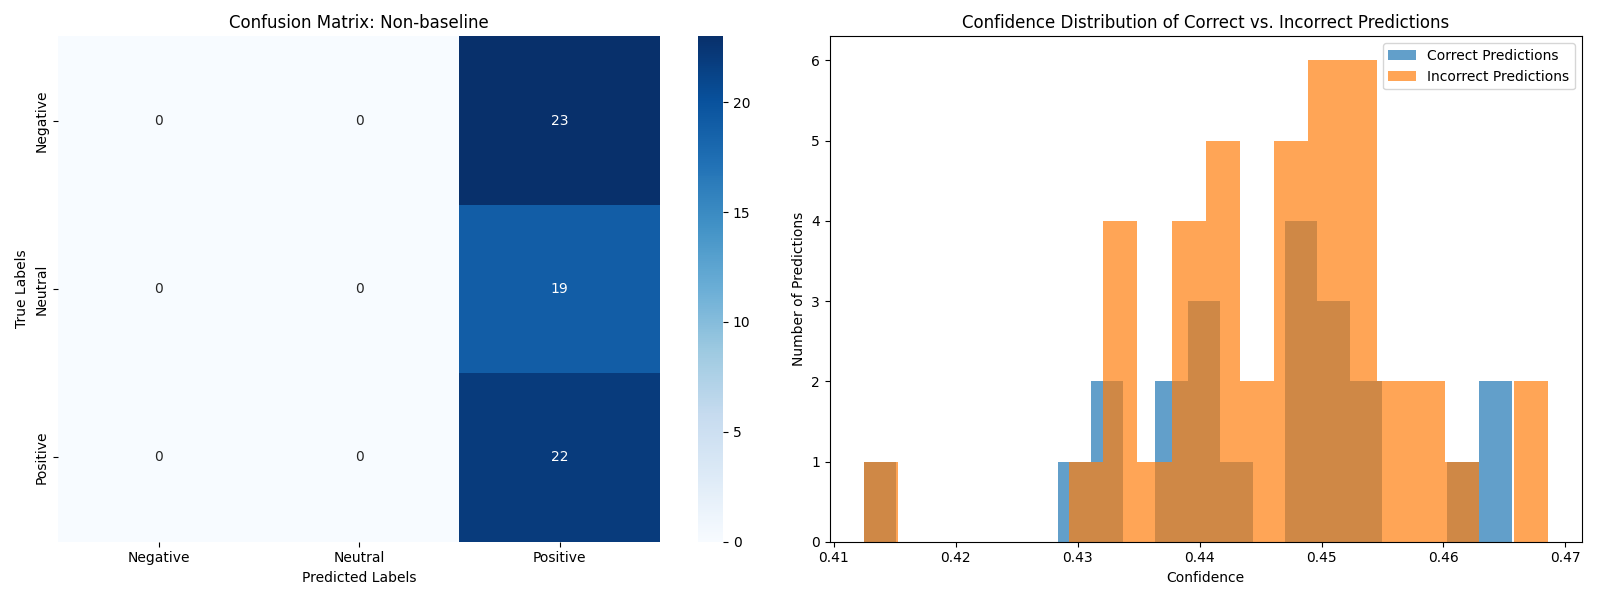
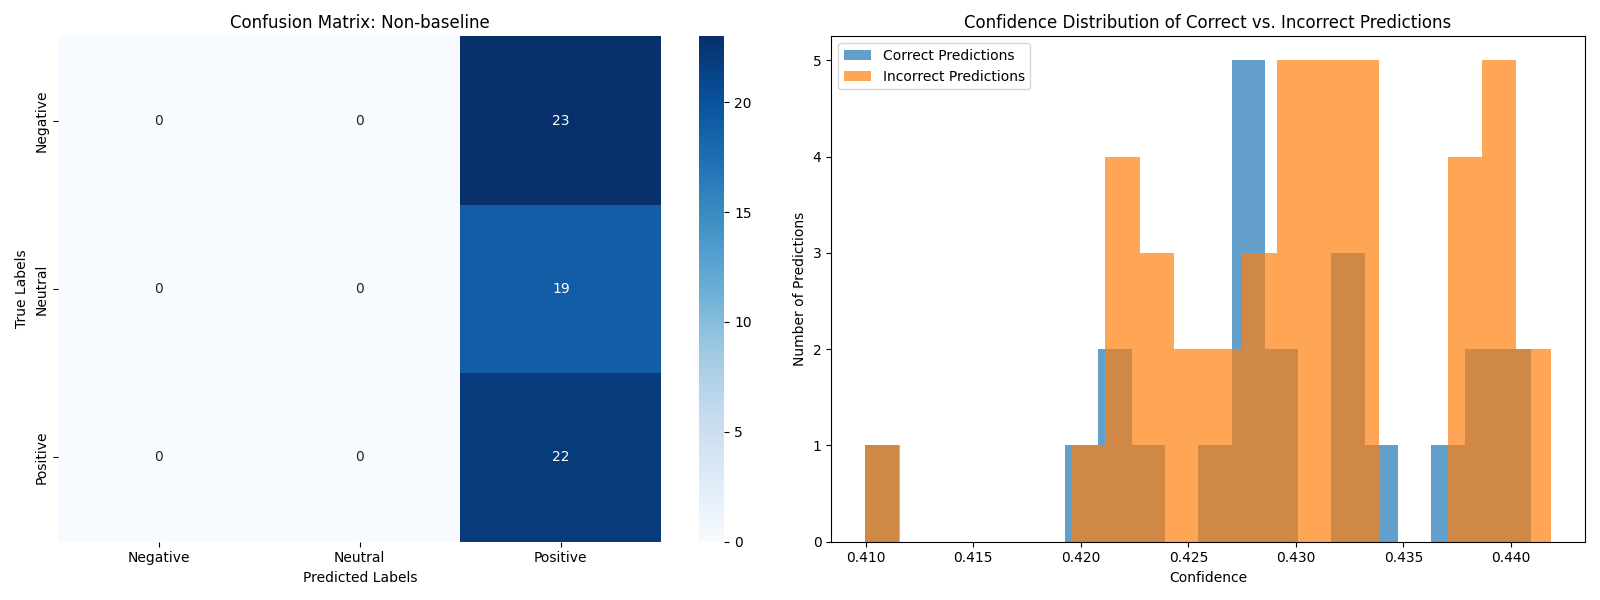
Change loss computations

diff --git a/train.py b/train.py
@@ -19,7 +19,7 @@ IS_BASELINE = True
 def train_epoch(model, data_loader, loss_function, optimizer, device, epoch):
     model.train()
     total_loss = 0
-    total_examples = 0
+    total_batches = 0
     all_preds = []
     all_labels = []
 
@@ -44,11 +44,11 @@ def train_epoch(model, data_loader, loss_function, optimizer, device, epoch):
         optimizer.step()
 
         if batch_num % PRINT_EVERY == 0:
-            print("EPOCH {}: BATCH {}/{}, LOSS: {:.4f}".format(epoch, batch_num, len(data_loader), loss.item() / input_ids.size(0)))
+            print("EPOCH {}: BATCH {}/{}, LOSS: {:.4f}".format(epoch, batch_num, len(data_loader), loss.item()))
             print("LOGITS MEAN", logits.mean(dim=0))
 
         total_loss += loss.item()
-        total_examples += input_ids.size(0)
+        total_batches += 1
 
         preds = torch.argmax(logits, dim=1).cpu().numpy()
         true_labels = labels.cpu().numpy()
@@ -57,7 +57,7 @@ def train_epoch(model, data_loader, loss_function, optimizer, device, epoch):
         if EARLY_EXIT is not None and batch_num > EARLY_EXIT:
             break
 
-    avg_loss = total_loss / total_examples
+    avg_loss = total_loss / total_batches
     accuracy = accuracy_score(all_labels, all_preds)
     return avg_loss, accuracy
 
@@ -65,7 +65,7 @@ def train_epoch(model, data_loader, loss_function, optimizer, device, epoch):
 def evaluate(model, data_loader, loss_function, device, epoch):
     model.eval()
     total_loss = 0
-    total_examples = 0
+    total_batches = 0
     all_preds = []
     all_labels = []
     positive_samples = 0
@@ -93,7 +93,7 @@ def evaluate(model, data_loader, loss_function, device, epoch):
 
             loss = loss_function(logits, labels)
             total_loss += loss.item()
-            total_examples += input_ids.size(0)
+            total_batches += 1
 
             preds = torch.argmax(logits, dim=1).cpu().numpy()
             true_labels = labels.cpu().numpy()
@@ -102,12 +102,12 @@ def evaluate(model, data_loader, loss_function, device, epoch):
             if EARLY_EXIT is not None and batch_num > EARLY_EXIT:
                 break
 
-    avg_loss = total_loss / total_examples
+    avg_loss = total_loss / total_batches
     accuracy = accuracy_score(all_labels, all_preds)
     f1 = f1_score(all_labels, all_preds, average='weighted')  
     print("EPOCH {}:\nAverage Loss: {}\nAccuracy: {}\nF1 Score: {}".format(epoch, avg_loss, accuracy, f1))
     print("Data distribution:\nNegative Samples: {}\nNeutral Samples: {}\nNegative Samples: {}".format(negative_samples, neutral_samples, positive_samples))
-    print("Negative %: {:.4f}\nNeutral %: {:.4f}\nPositive %: {:.4f}".format(negative_samples / total_examples, neutral_samples / total_examples, positive_samples / total_examples))
+    print("Negative %: {:.4f}\nNeutral %: {:.4f}\nPositive %: {:.4f}".format(negative_samples / total_batches, neutral_samples / total_batches, positive_samples / total_batches))
     print("-----------------------------------\n")
 
     return avg_loss, accuracy, f1
@@ -164,7 +164,7 @@ if __name__ == "__main__":
     else:
         model = StockPredictor()
 
-    loss_fn = torch.nn.CrossEntropyLoss(reduction="sum")
+    loss_fn = torch.nn.CrossEntropyLoss(reduction="mean")
     learning_rate = 1e-4
     optimizer = AdamW(model.parameters(), lr=learning_rate)
     device = torch.device("cuda" if torch.cuda.is_available() else "cpu")

diff --git a/visualize.py b/visualize.py
@@ -14,6 +14,9 @@ from model_baseline import BaselineModel
 from util import *
 
 def plot_confusion_matrix(predictions, true_labels, title="Confusion Matrix", ax=None):
+    print("NEGATIVE PREDS:", predictions.count(0))
+    print("NEUTRAL PREDS:", predictions.count(1))
+    print("POSITIVE PREDS:", predictions.count(2))
     cm = confusion_matrix(true_labels, predictions)
 
     sns.heatmap(cm, annot=True, fmt='d', cmap='Blues', xticklabels=['Negative', 'Neutral', 'Positive'], yticklabels=['Negative', 'Neutral', 'Positive'], ax=ax)
@@ -36,7 +39,7 @@ def plot_confidence_distribution(correct_preds, incorrect_preds, confidence, ax)
 def evaluate_model(model, data_loader, loss_function, device, figure_path):
     model.eval()
     total_loss = 0
-    total_examples = 0
+    total_batches = 0
     all_preds = []
     all_labels = []
     all_confidences = []  # Track confidence scores
@@ -60,7 +63,7 @@ def evaluate_model(model, data_loader, loss_function, device, figure_path):
 
             loss = loss_function(logits, labels)
             total_loss += loss.item()
-            total_examples += input_ids.size(0)
+            total_batches += 1
 
             # Compute probabilities and confidence (max probability of the predicted class)
             probabilities = F.softmax(logits, dim=1)
@@ -91,7 +94,7 @@ def evaluate_model(model, data_loader, loss_function, device, figure_path):
 
     weighted_f1 = weighted_f1_score(np.array(all_preds), np.array(all_labels), np.array(all_confidences))
 
-    avg_loss = total_loss / total_examples
+    avg_loss = total_loss / total_batches
 
     # Print metrics
     print(f"Average Loss: {avg_loss:.4f}")
@@ -166,7 +169,7 @@ if __name__ == "__main__":
     else:
         model = StockPredictor()
 
-    loss_fn = torch.nn.CrossEntropyLoss(reduction="sum")
+    loss_fn = torch.nn.CrossEntropyLoss(reduction="mean")
     optimizer = AdamW(model.parameters(), lr=0)
     device = torch.device("cuda" if torch.cuda.is_available() else "cpu")
 
